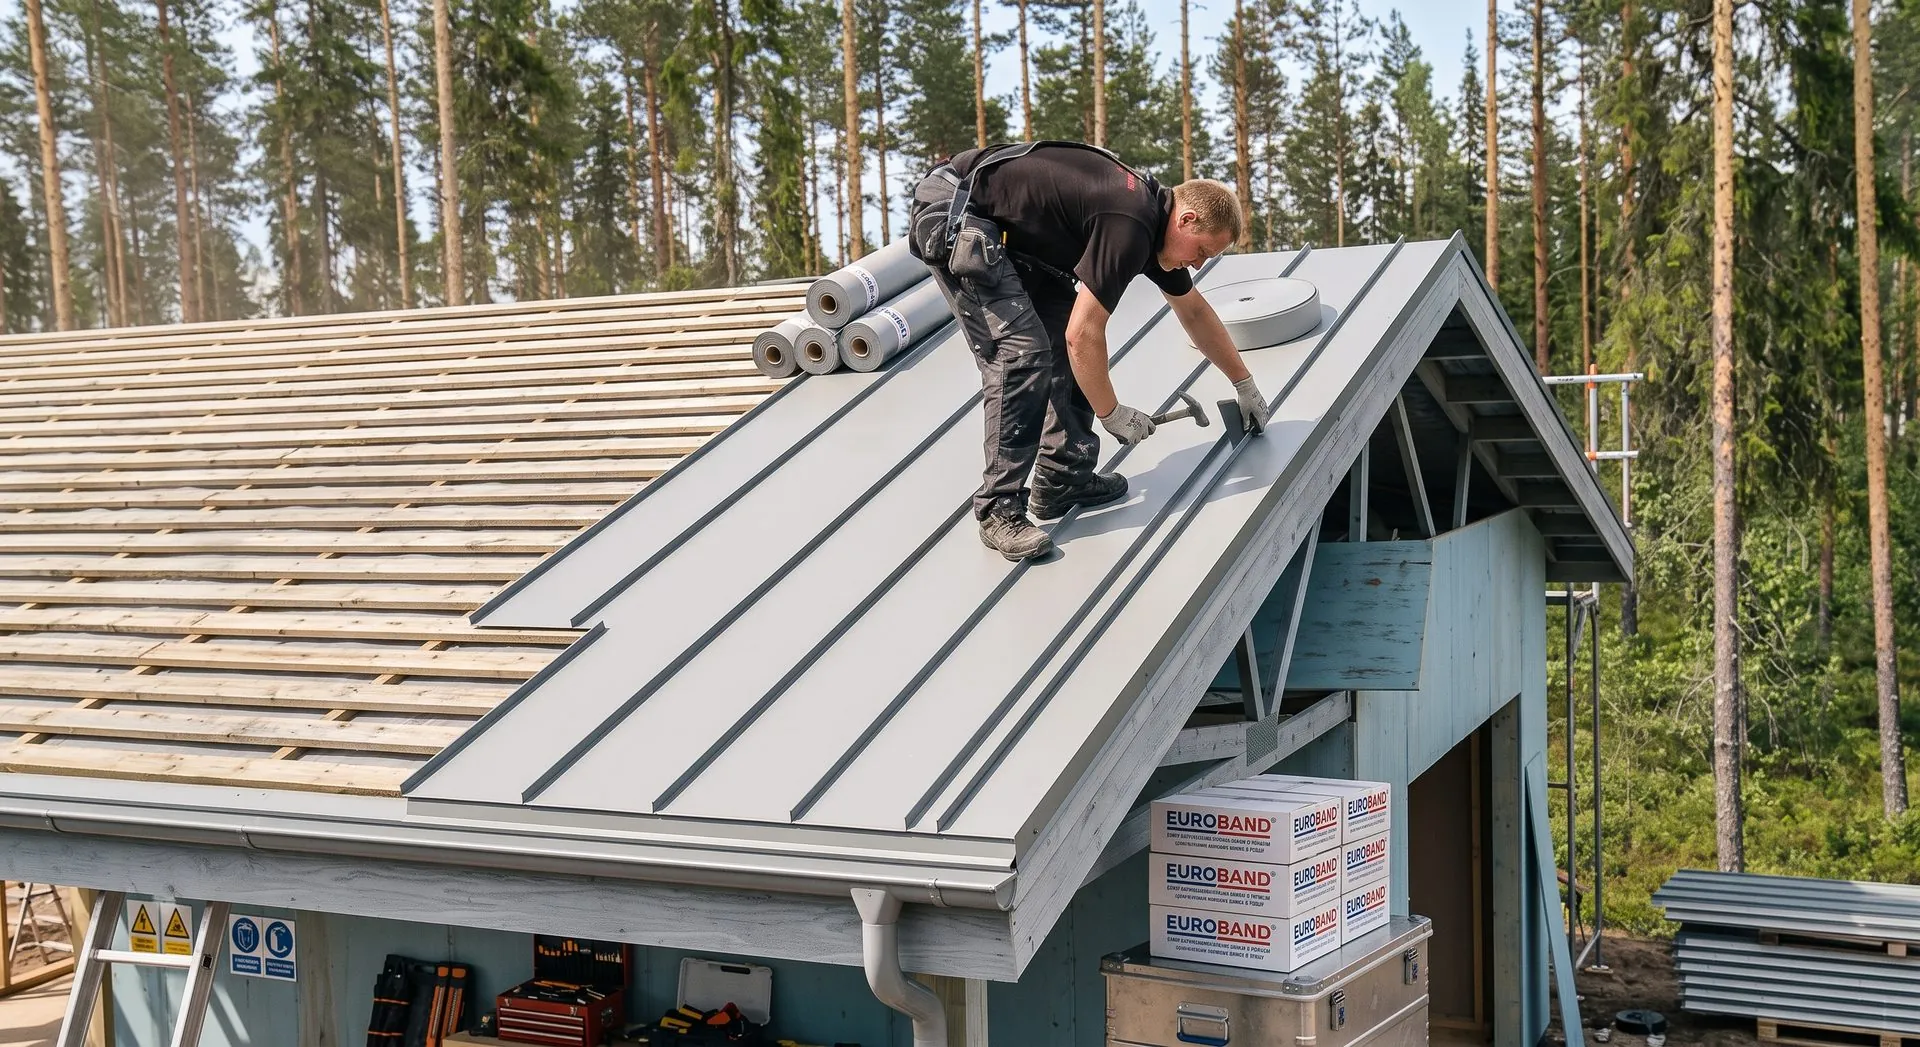
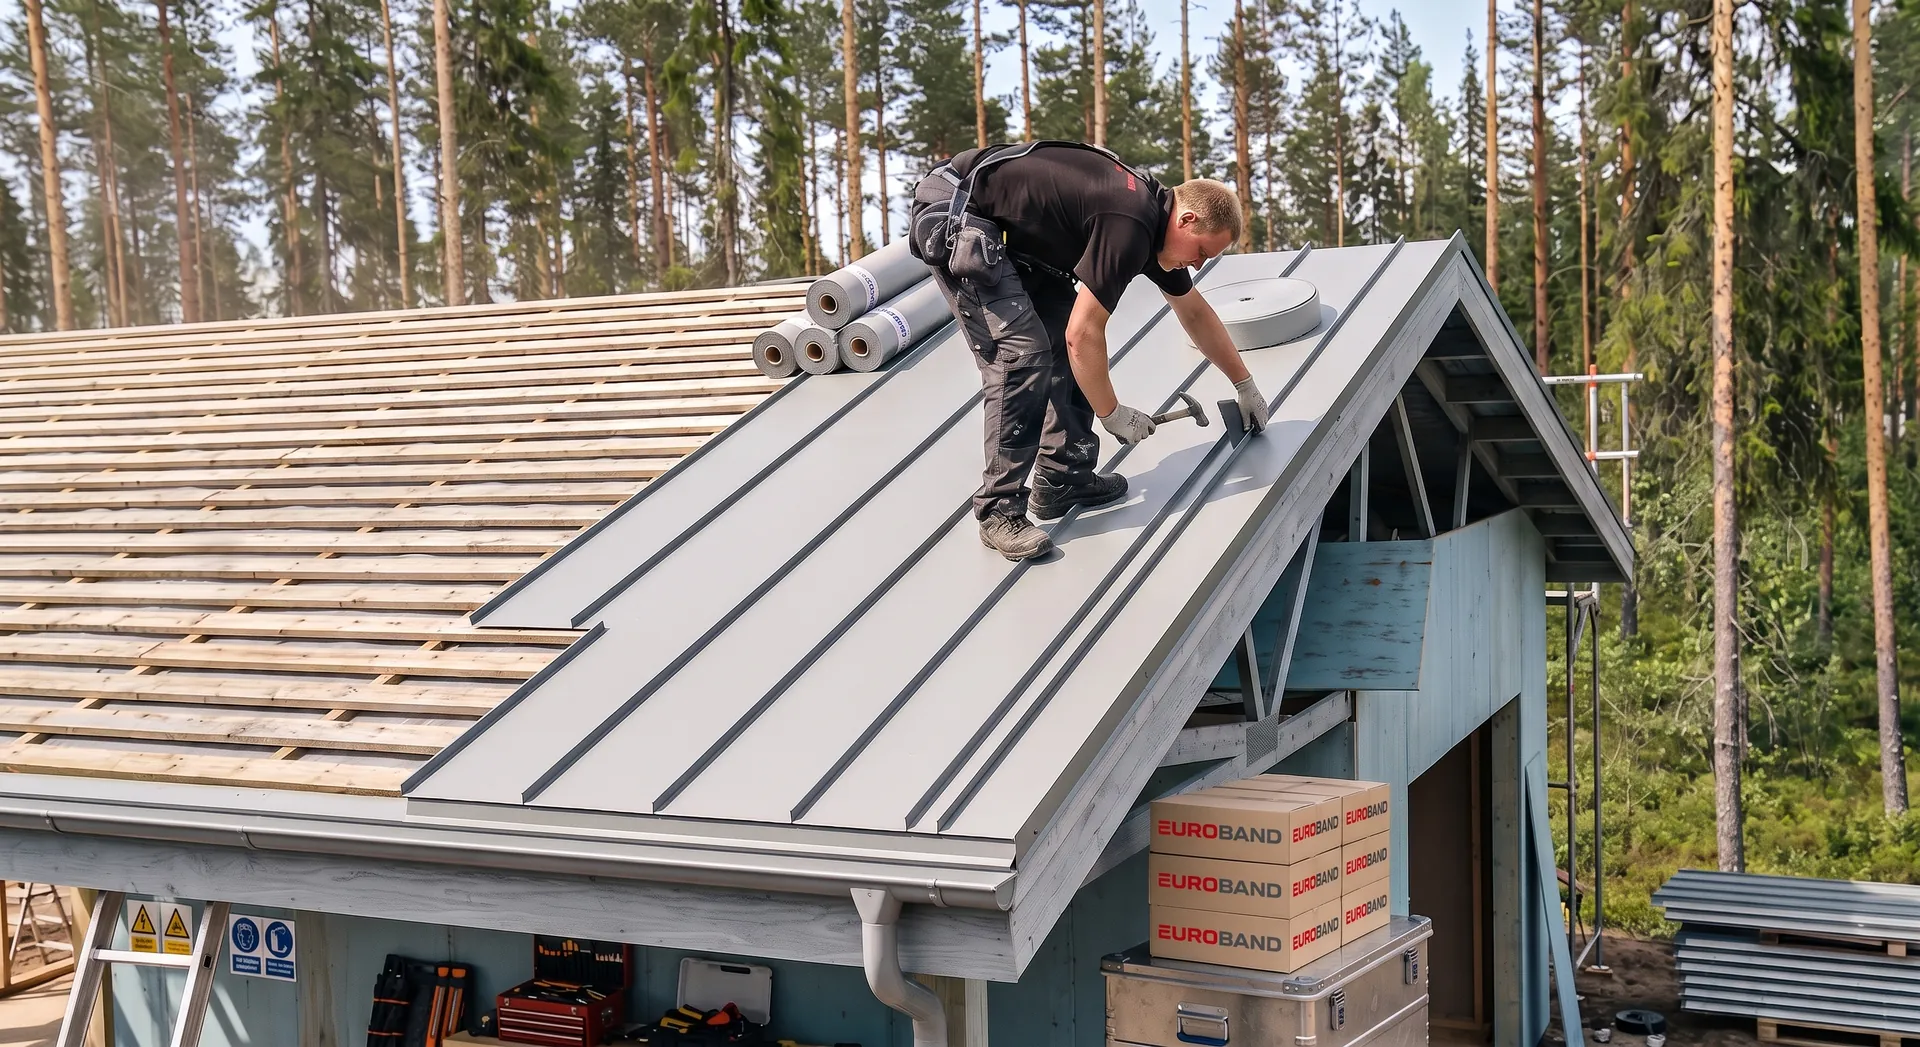
Новые фото в слайдере: кровля, межфланцевая лента, стяжка пола
Клиент прислал три кадра. Слайдер стал из трёх слайдов вместо четырёх, тексты
подогнаны под то, что на фото: кровельные узлы, уплотнение стыков плит и
демпферная лента по периметру стяжки. Слайды про ВЛ(а) и ПСУЛ ушли — кадров
под них нет, разделы остались в каталоге и меню.

Кадр с плитой обрезан на 38% снизу: там инфографика «защита от воды /
звукоизоляция / теплоизоляция», она уезжала под заголовок и дублировала его.

Четвёртый кадр из партии — вид цеха — не взят. На коробках там в упор
читается «Сделано в России», а рядом на сайте стоит «Белорусский
производитель с 2009 года»; логотип на них тоже не фирменный, сине-красный.

Старые кадры tape-application и roof-profile-sheets остались в проекте: их
используют обложки новостей и страница «О компании».

diff --git a/src/components/home/Hero.tsx b/src/components/home/Hero.tsx
@@ -4,9 +4,8 @@ import { motion, useReducedMotion } from 'motion/react';
 import { paths } from '../../routes';
 import eurobandLight from '../../assets/logo/euroband-light.svg';
 import roofStandingSeam from '../../assets/hero/roof-standing-seam.webp';
-import tapeApplication from '../../assets/hero/tape-application.webp';
-import roofProfileSheets from '../../assets/hero/roof-profile-sheets.webp';
 import tapeSlabJoint from '../../assets/hero/tape-slab-joint.webp';
+import floorDamperTape from '../../assets/hero/floor-damper-tape.webp';
 
 interface HeroProps {
   onOpenCallback: () => void;
@@ -33,29 +32,20 @@ const SLIDES: Slide[] = [
     cta: 'Смотреть каталог'
   },
   {
-    id: 'vla',
-    lead: 'Внутренний слой монтажного шва —',
-    accent: 'пароизоляционные ленты ВЛ(а) и ВЛ',
-    text: 'Металлизированная плёнка с нетканым полотном, две монтажные полосы: акрил и бутилкаучук. Пять типоразмеров по ширине.',
-    image: tapeApplication,
-    href: `${paths.category('materialy-dlya-okon')}?sub=montazhnye-lenty-dlya-okon`,
-    cta: 'Монтажные ленты'
-  },
-  {
-    id: 'psul',
-    lead: 'Защита стыков от воды, шума и холода —',
-    accent: 'саморасширяющаяся лента ПСУЛ',
-    text: 'Предварительно сжатая уплотнительная лента. Соответствует ТКП 45-3.02-223-2010 и ГОСТ 30971-2002.',
-    image: roofProfileSheets,
-    href: `${paths.category('materialy-dlya-okon')}?sub=samorasshiryayuschayasya-lenta-psul`,
-    cta: 'Лента ПСУЛ'
-  },
-  {
-    id: 'pes',
-    lead: 'Для сэндвич-панелей, кровли и вентиляции —',
-    accent: 'уплотнительные ленты ПЭС',
-    text: 'Самоклеящиеся ленты из вспененного полиэтилена: звукоизоляция, герметизация стыков и межфланцевых соединений.',
+    id: 'joint',
+    lead: 'Защита от воды, шума и холода —',
+    accent: 'межфланцевая лента ПЭС',
+    text: 'Уплотнение стыков плит, панелей и металлоконструкций самоклеящейся лентой из вспененного полиэтилена.',
     image: tapeSlabJoint,
+    href: `${paths.category('materialy-dlya-okon')}?sub=uplotnitelnye-lenty-pes-samokleyaschiesy`,
+    cta: 'Ленты ПЭС'
+  },
+  {
+    id: 'floor',
+    lead: 'По периметру стяжки —',
+    accent: 'демпферная лента',
+    text: 'Компенсирует расширение стяжки и отсекает ударный шум от стен и перегородок.',
+    image: floorDamperTape,
     href: `${paths.category('materialy-dlya-okon')}?sub=uplotnitelnye-lenty-pes-samokleyaschiesy`,
     cta: 'Ленты ПЭС'
   }

diff --git a/src/components/home-v2/Sections.tsx b/src/components/home-v2/Sections.tsx
@@ -14,10 +14,9 @@ import aboutProduct from "../../assets/content/lenta-butilovaja-euroband-lba-3e2
 import { paths } from "../../routes";
 import { Fade, FadeGroup, CountUp, BlueButton } from "./Chrome";
 import { RequestForm } from "./RequestForm";
-import heroTape from "../../assets/hero/tape-application.webp";
 import heroRoof from "../../assets/hero/roof-standing-seam.webp";
-import heroSheets from "../../assets/hero/roof-profile-sheets.webp";
 import heroSlab from "../../assets/hero/tape-slab-joint.webp";
+import heroFloor from "../../assets/hero/floor-damper-tape.webp";
 import eurobandLogo from "../../assets/logo/euroband-color.svg";
 import eurobandLight from "../../assets/logo/euroband-light.svg";
 import {
@@ -66,26 +65,18 @@ const HERO_SLIDES: HeroSlide[] = [
     cta: "Смотреть каталог",
   },
   {
-    id: "vla",
-    title: "Пароизоляционные ленты ВЛ(а) и ВЛ",
-    text: "Внутренний слой монтажного шва: металлизированная плёнка с нетканым полотном, пять типоразмеров по ширине.",
-    image: heroTape,
-    href: `${paths.category("materialy-dlya-okon")}?sub=montazhnye-lenty-dlya-okon`,
-    cta: "Монтажные ленты",
-  },
-  {
-    id: "psul",
-    title: "Саморасширяющаяся лента ПСУЛ",
-    text: "Защита стыков от воды, шума и холода. Соответствует ТКП 45-3.02-223-2010 и ГОСТ 30971-2002.",
-    image: heroSheets,
-    href: `${paths.category("materialy-dlya-okon")}?sub=samorasshiryayuschayasya-lenta-psul`,
-    cta: "Лента ПСУЛ",
-  },
-  {
-    id: "pes",
-    title: "Уплотнительные ленты ПЭС",
-    text: "Самоклеящиеся ленты из вспененного полиэтилена для сэндвич-панелей, кровли и межфланцевых соединений.",
+    id: "joint",
+    title: "Защита от воды, шума и холода",
+    text: "Межфланцевая уплотнительная лента ПЭС в стыках плит, панелей и металлоконструкций.",
     image: heroSlab,
+    href: `${paths.category("materialy-dlya-okon")}?sub=uplotnitelnye-lenty-pes-samokleyaschiesy`,
+    cta: "Ленты ПЭС",
+  },
+  {
+    id: "floor",
+    title: "Демпферная лента для стяжки пола",
+    text: "Компенсирует расширение стяжки и отсекает ударный шум по периметру помещения.",
+    image: heroFloor,
     href: `${paths.category("materialy-dlya-okon")}?sub=uplotnitelnye-lenty-pes-samokleyaschiesy`,
     cta: "Ленты ПЭС",
   },

diff --git a/PROGRESS.md b/PROGRESS.md
@@ -72,10 +72,17 @@
 
 | Слайд | Файл | Примечание |
 |---|---|---|
-| 1. Общий | `roof-standing-seam.webp` | |
-| 2. ВЛ(а)/ВЛ | `tape-application.webp` | |
-| 3. ПСУЛ | `roof-profile-sheets.webp` | |
-| 4. ПЭС | `tape-slab-joint.webp` | обрезаны нижние 42% — там впечатанные подписи |
+| 1. Общий | `roof-standing-seam.webp` | фальцевая кровля, коробки EUROBAND |
+| 2. Межфланцевая ПЭС | `tape-slab-joint.webp` | обрезаны нижние 38% — там инфографика |
+| 3. Демпферная лента | `floor-damper-tape.webp` | лента по периметру стяжки |
+
+`tape-application.webp` и `roof-profile-sheets.webp` из слайдера ушли, но
+остались в проекте: их используют обложки новостей и страница «О компании».
+
+**Кадр из цеха брать нельзя.** В присланной клиентом партии был вид
+производства — красивый, но на коробках в упор читается «Сделано в России», а
+на сайте рядом стоит «Белорусский производитель с 2009 года». Логотип на тех
+коробках к тому же сине-красный, не фирменный.
 
 Все четыре фона локальные, ничего не тянется с invit.by.
 
